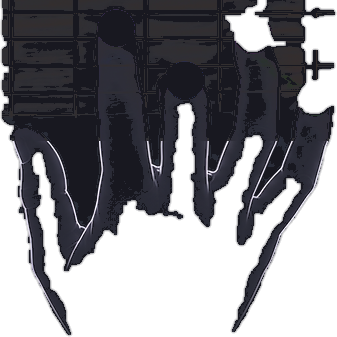
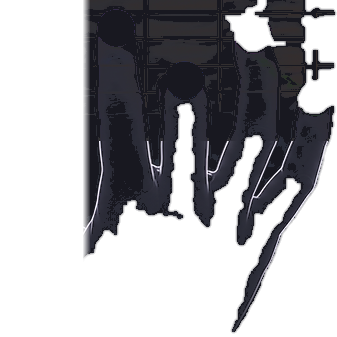
fix(neck): natural neck grip — thumb hidden, palm at board edge
Device feedback: the hand must hold the neck naturally.

- Thumb erased from the asset (feathered cut) — it is behind the neck.
- Anchor to the TOPMOST fretted dot instead of the mean: the mean sank
  the fingers below the board; fingers now reach the highest fretted
  string with the palm riding right at the board's bottom edge.
- Hand recentered for the thumbless asset; lift choreography boosted
  (2.4 string-gaps) so the loop's lift-move-drop reads clearly.

Learn goldens re-recorded + verified.

Changed region(s): [[0.0, 0.0, 0.2671, 1.0]]

diff --git a/mobile-ios/Sources/ToneForgeEngine/NeckPlay/GuitarNeckPlay.swift b/mobile-ios/Sources/ToneForgeEngine/NeckPlay/GuitarNeckPlay.swift
@@ -276,11 +276,13 @@ public struct HandSilhouetteView: View, Animatable {
             let ay: CGFloat = plan.neckBottom - g * 3.4
             anchor = CGPoint(x: ax, y: ay)
         } else {
+            // X: fingertip-cluster centroid. Y: the TOPMOST dot — the
+            // fingers reach the highest fretted string; anchoring to
+            // the mean sank the hand below the board.
             var sx: CGFloat = 0
-            var sy: CGFloat = 0
-            for t in active { sx += t.x; sy += t.y }
-            let n = CGFloat(active.count)
-            anchor = CGPoint(x: sx / n, y: sy / n)
+            var minY = CGFloat.greatestFiniteMagnitude
+            for t in active { sx += t.x; minY = min(minY, t.y) }
+            anchor = CGPoint(x: sx / CGFloat(active.count), y: minY)
         }
 
         let handW = g * 9.6
@@ -289,9 +291,9 @@ public struct HandSilhouetteView: View, Animatable {
         // the chord's dot row so the hand reads as fretting the notes,
         // thumb tucked low behind the neck line.
         var liftOffset: CGFloat = 0
-        if lifted { liftOffset = g * 1.6 }
+        if lifted { liftOffset = g * 2.4 }
         let handRect = CGRect(
-            x: anchor.x - handW * 0.58,
+            x: anchor.x - handW * 0.52,
             y: anchor.y - g * 0.55 + liftOffset,
             width: handW, height: handH)
 
